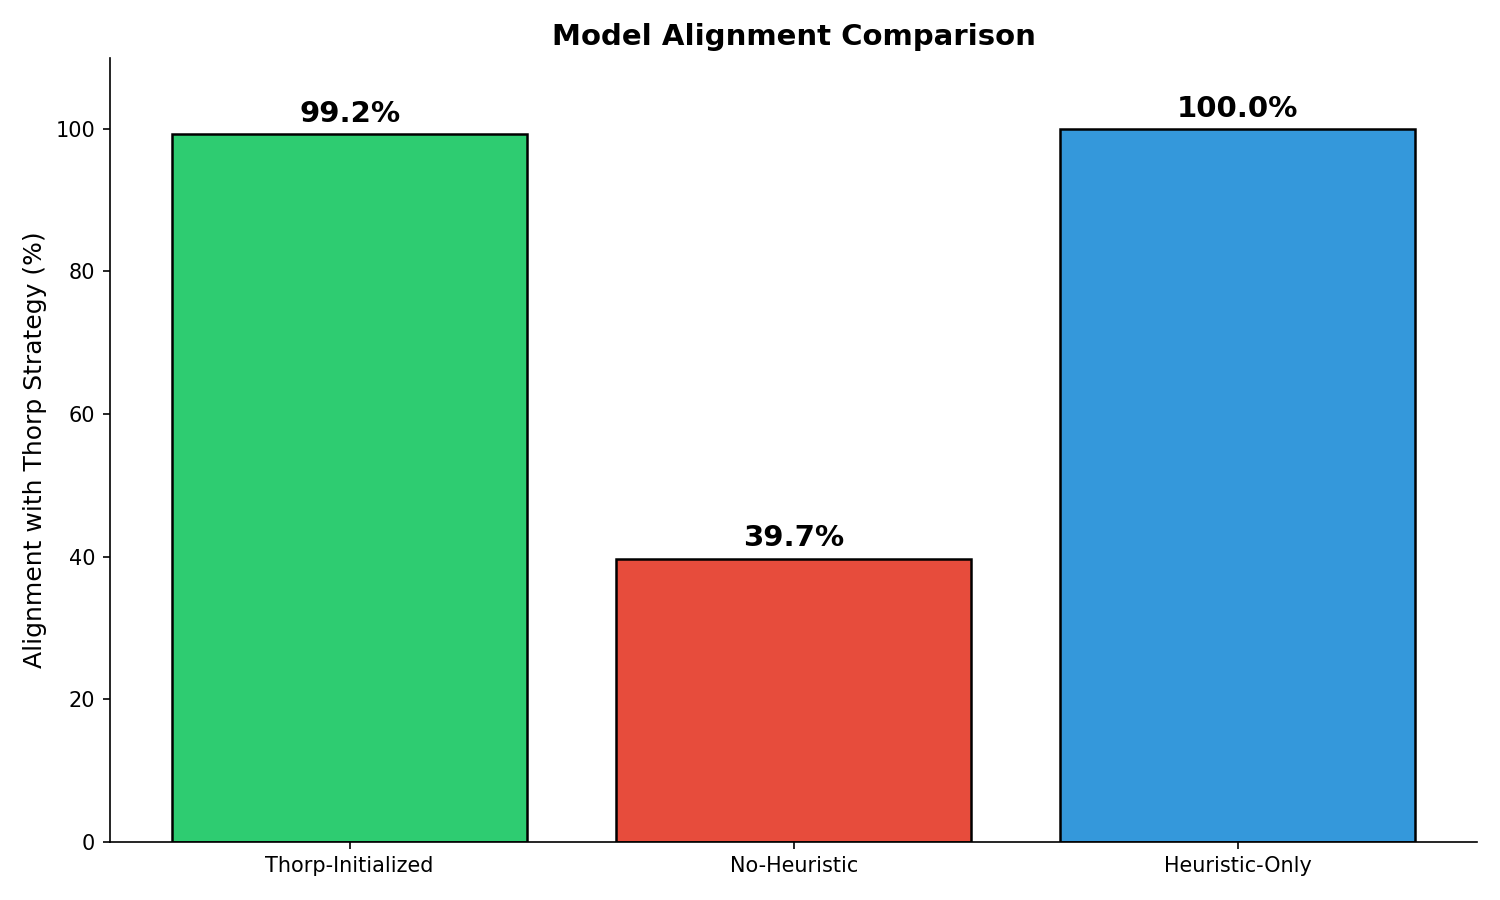
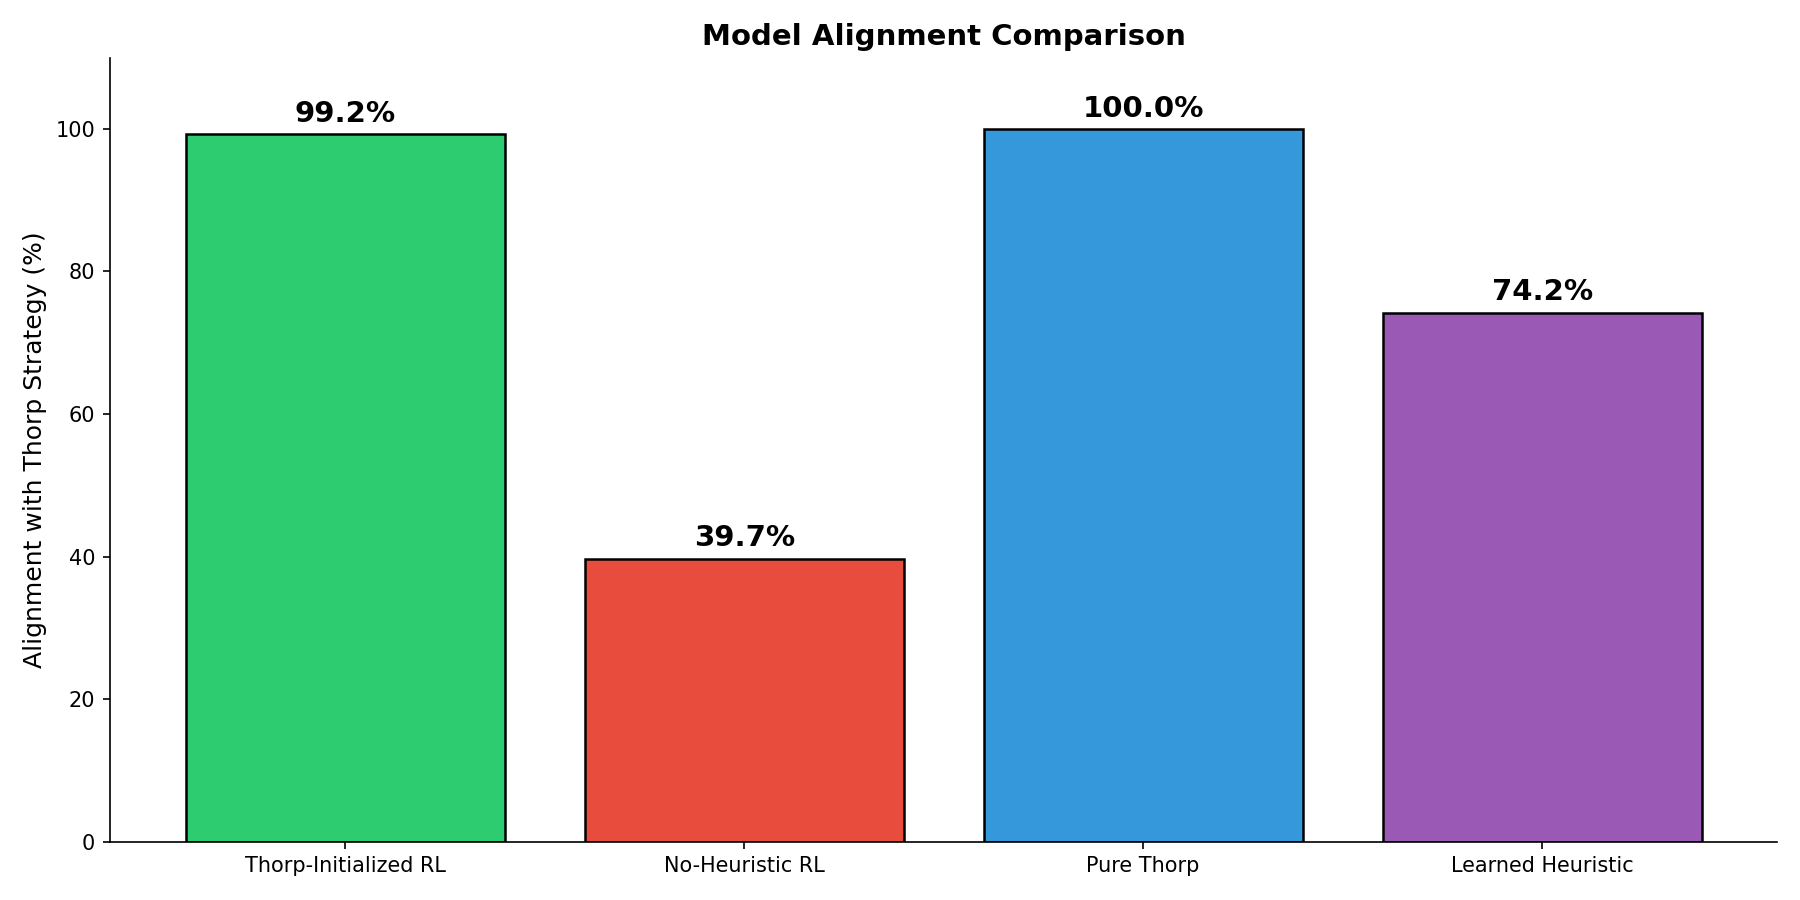
Added final agent, a script to train three different models, and a script to generate plots and stats

diff --git a/blackjack_scripts/blackjack_analysis.py b/blackjack_scripts/blackjack_analysis.py
@@ -5,10 +5,8 @@ Generates figures and statistics for the CardCore AI Blackjack poster.
 
 Outputs:
     Figures (to blackjack_plots/):
-        - alignment_comparison.png: Bar chart comparing alignment across 3 models
+        - alignment_comparison.png: Bar chart comparing alignment across 4 models
         - disagreement_heatmap.png: Where Thorp-initialized agent disagrees with Thorp
-        - visit_count_distribution.png: Training data coverage across states
-        - q_value_scatter.png: Initial vs final Q-values for Thorp-initialized model
         - action_distribution.png: Pie chart of action percentages in test set
 
     Statistics (to blackjack_plots/):
@@ -30,9 +28,33 @@ import matplotlib.pyplot as plt
 script_dir = os.path.dirname(os.path.abspath(__file__))
 project_dir = os.path.dirname(script_dir)
 agents_dir = os.path.join(project_dir, "blackjack_agents")
+heuristics_dir = os.path.join(project_dir, "blackjack_rl_seperated")
 sys.path.append(agents_dir)
+sys.path.append(heuristics_dir)
 from blackjack_rl_agent import BlackjackRLAgent, ThorpOnlyAgent, BlackjackState #type: ignore
 from thorps_strategy import get_thorp_action #type: ignore
+from blackjackHeuristic import choose_action as learned_choose_action #type: ignore
+
+
+class LearnedHeuristicAgent:
+    #Wrapper for Gio's Q-value based learned heuristic agent
+
+    def __init__(self, q_path=None):
+        if q_path is None:
+            q_path = os.path.join(project_dir, "blackjack_data/development/Q_full.csv")
+        self.q_path = q_path
+
+    def get_best_action(self, state):
+        action = learned_choose_action(
+            total=state.player_total,
+            is_soft=state.is_soft,
+            dealer_up=state.dealer_up,
+            true_count=state.true_count,
+            min_samples=5,
+            default='S',
+            q_path=self.q_path
+        )
+        return action
 
 
 def load_models():
@@ -47,10 +69,18 @@ def load_models():
     no_heuristic_agent = BlackjackRLAgent()
     no_heuristic_agent.load_model(os.path.join(models_dir, "model_no_heuristic.pkl"))
 
-    #Heuristic-only agent
+    #Heuristic-only agent (pure Thorp)
     heuristic_only_agent = ThorpOnlyAgent()
 
-    return {'thorp_initialized': thorp_init_agent, 'no_heuristic': no_heuristic_agent, 'heuristic_only': heuristic_only_agent}
+    #Learned heuristic agent (partner's Q-value based)
+    learned_heuristic_agent = LearnedHeuristicAgent()
+
+    return {
+        'thorp_initialized': thorp_init_agent,
+        'no_heuristic': no_heuristic_agent,
+        'heuristic_only': heuristic_only_agent,
+        'learned_heuristic': learned_heuristic_agent
+    }
 
 
 def load_validation_data():
@@ -84,7 +114,7 @@ def evaluate_alignment(agent, val_data):
         state = BlackjackState(total_val, is_soft, dealer_up, true_count)
         available_actions = ['H', 'S', 'D', 'R']
         if hasattr(agent, 'get_best_action'):
-            if isinstance(agent, ThorpOnlyAgent):
+            if isinstance(agent, (ThorpOnlyAgent, LearnedHeuristicAgent)):
                 agent_action = agent.get_best_action(state)
             else:
                 agent_action = agent.get_best_action(state, available_actions)
@@ -103,7 +133,7 @@ def evaluate_alignment(agent, val_data):
 
 
 def get_disagreement_matrix(agent, val_data):
-    #Build matrix of disagreements by player_total, dealer_upcard
+    #Build matrix of disagreements by player_total, 
     #Matrix: rows = player total (4-21), cols = dealer upcard (2-11)
     disagree_counts = np.zeros((18, 10))  
     total_counts = np.zeros((18, 10))
@@ -139,27 +169,6 @@ def get_disagreement_matrix(agent, val_data):
     return disagree_counts, total_counts
 
 
-def get_visit_count_distribution(agent):
-    #Get distribution of visit counts across state-action pairs
-    visit_counts = []
-    for key, count in agent.visit_counts.items():
-        if count > 0:
-            visit_counts.append(count)
-    return visit_counts
-
-
-def get_q_value_comparison(agent):
-    #Get initial vs final Q-values for the agent
-    initial_q = []
-    final_q = []
-    for key in agent.init_values:
-        init_val = agent.init_values[key]
-        final_val = agent.Q.get(key, init_val)
-        initial_q.append(init_val)
-        final_q.append(final_val)
-    return initial_q, final_q
-
-
 def get_action_distribution(val_data):
     #Get distribution of actions in the test set
     action_counts = defaultdict(int)
@@ -182,15 +191,16 @@ def get_action_distribution(val_data):
 
 def plot_alignment_comparison(alignments, output_dir):
     #Create bar chart comparing alignment percentages
-    models = ['Thorp-Initialized', 'No-Heuristic', 'Heuristic-Only']
+    models = ['Thorp-Initialized RL', 'No-Heuristic RL', 'Pure Thorp', 'Learned Heuristic']
     values = [
         alignments['thorp_initialized']['alignment_pct'],
         alignments['no_heuristic']['alignment_pct'],
-        alignments['heuristic_only']['alignment_pct']
+        alignments['heuristic_only']['alignment_pct'],
+        alignments['learned_heuristic']['alignment_pct']
     ]
-    colors = ['#2ecc71', '#e74c3c', '#3498db']
+    colors = ['#2ecc71', '#e74c3c', '#3498db', '#9b59b6']
 
-    fig, ax = plt.subplots(figsize=(10, 6))
+    fig, ax = plt.subplots(figsize=(12, 6))
     bars = ax.bar(models, values, color=colors, edgecolor='black', linewidth=1.2)
 
     #Add value labels on bars
@@ -249,62 +259,6 @@ def plot_disagreement_heatmap(disagree_counts, total_counts, output_dir):
                            ha='center', va='center', color=text_color, fontsize=8)
     plt.tight_layout()
     plt.savefig(os.path.join(output_dir, 'disagreement_heatmap.png'), dpi=150)
-    plt.close()
-
-def plot_visit_count_distribution(visit_counts, output_dir):
-    #Create histogram of visit counts
-    fig, ax = plt.subplots(figsize=(10, 6))
-    if len(visit_counts) > 0:
-        #Use log scale for x-axis bins
-        max_count = max(visit_counts)
-        bins = np.logspace(0, np.log10(max_count + 1), 50)
-        ax.hist(visit_counts, bins=bins, color='#3498db', edgecolor='black', alpha=0.7)
-        ax.set_xscale('log')
-        ax.set_xlabel('Visit Count (log scale)', fontsize=12)
-        ax.set_ylabel('Number of State-Action Pairs', fontsize=12)
-        ax.set_title('Training Data Coverage: Visit Count Distribution', fontsize=14, fontweight='bold')
-
-        #Add statistics
-        stats_text = f'Total observed pairs: {len(visit_counts):,}\n'
-        stats_text += f'Mean visits: {np.mean(visit_counts):.1f}\n'
-        stats_text += f'Median visits: {np.median(visit_counts):.0f}\n'
-        stats_text += f'Max visits: {max_count:,}'
-        ax.text(0.95, 0.95, stats_text, transform=ax.transAxes,
-                fontsize=10, verticalalignment='top', horizontalalignment='right',
-                bbox=dict(boxstyle='round', facecolor='wheat', alpha=0.5))
-    ax.spines['top'].set_visible(False)
-    ax.spines['right'].set_visible(False)
-    plt.tight_layout()
-    plt.savefig(os.path.join(output_dir, 'visit_count_distribution.png'), dpi=150)
-    plt.close()
-
-def plot_q_value_scatter(initial_q, final_q, output_dir):
-    #Create scatter plot of initial vs final Q-values."""
-    fig, ax = plt.subplots(figsize=(10, 8))
-
-    #Sample if too many points
-    n_points = len(initial_q)
-    if n_points > 5000:
-        indices = np.random.choice(n_points, 5000, replace=False)
-        init_sample = [initial_q[i] for i in indices]
-        final_sample = [final_q[i] for i in indices]
-    else:
-        init_sample = initial_q
-        final_sample = final_q
-    ax.scatter(init_sample, final_sample, alpha=0.3, s=10, c='#3498db')
-
-    #Add diagonal line (no change)
-    min_val = min(min(initial_q), min(final_q))
-    max_val = max(max(initial_q), max(final_q))
-    ax.plot([min_val, max_val], [min_val, max_val], 'r--', linewidth=2, label='No change')
-    ax.set_xlabel('Initial Q-Value (from Thorp)', fontsize=12)
-    ax.set_ylabel('Final Q-Value (after training)', fontsize=12)
-    ax.set_title('Q-Value Evolution: Thorp-Initialized Model', fontsize=14, fontweight='bold')
-    ax.legend(loc='upper left')
-    ax.spines['top'].set_visible(False)
-    ax.spines['right'].set_visible(False)
-    plt.tight_layout()
-    plt.savefig(os.path.join(output_dir, 'q_value_scatter.png'), dpi=150)
     plt.close()
 
 def plot_action_distribution(action_counts, output_dir):
@@ -375,7 +329,8 @@ def calculate_statistics(models, val_data, alignments):
         'alignment_percentages': {
             'thorp_initialized': alignments['thorp_initialized']['alignment_pct'],
             'no_heuristic': alignments['no_heuristic']['alignment_pct'],
-            'heuristic_only': alignments['heuristic_only']['alignment_pct']
+            'heuristic_only': alignments['heuristic_only']['alignment_pct'],
+            'learned_heuristic': alignments['learned_heuristic']['alignment_pct']
         },
         'observed_state_action_pairs': observed_pairs,
         'disagreements_by_action_type': dict(disagreement_counts),
@@ -409,10 +364,6 @@ def main():
     plot_alignment_comparison(alignments, output_dir)
     disagree_counts, total_counts = get_disagreement_matrix(models['thorp_initialized'], val_data)
     plot_disagreement_heatmap(disagree_counts, total_counts, output_dir)
-    visit_counts = get_visit_count_distribution(models['thorp_initialized'])
-    plot_visit_count_distribution(visit_counts, output_dir)
-    initial_q, final_q = get_q_value_comparison(models['thorp_initialized'])
-    plot_q_value_scatter(initial_q, final_q, output_dir)
     action_counts = get_action_distribution(val_data)
     plot_action_distribution(action_counts, output_dir)
 
